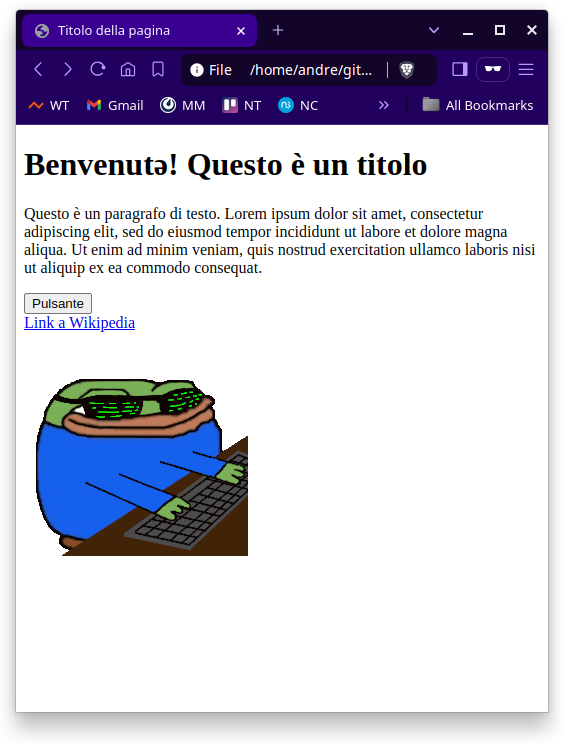
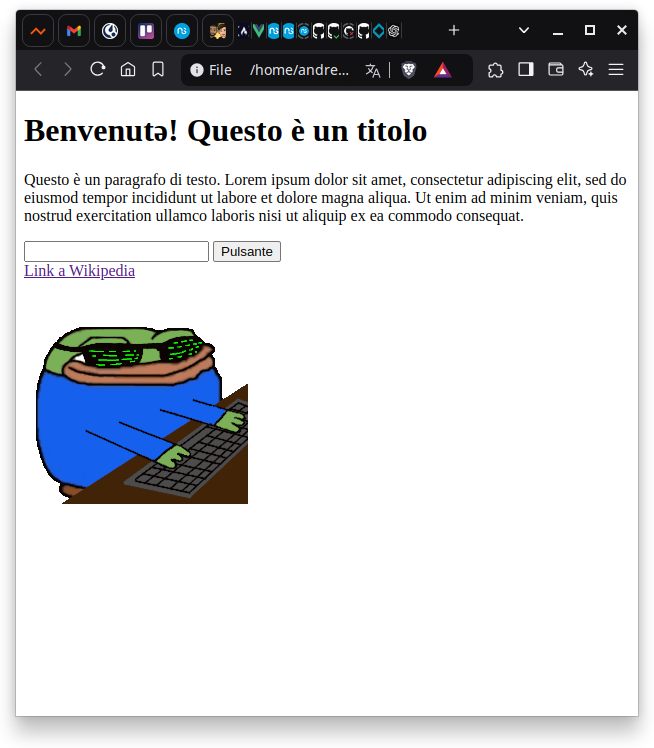
fix(slide): add html exercise; some refactoring

Changed region(s): [[0.0, 0.0, 0.9947, 0.9583]]

diff --git a/code/frontend/css/style.css b/code/frontend/css/style.css
@@ -16,9 +16,17 @@ h1 {
   color: red;
 }
 
+.text-input {
+  color: white;
+  background-color: rgb(70, 70, 70);
+  padding: 0.5rem; /* 8px */
+  margin-bottom: 1rem; /* 16px */
+  border-radius: 0.5rem; /* 8px */
+}
+
 .yellow-button {
   cursor: pointer;
-  background-color: #99ff99;
+  background-color: rgb(150, 255, 150);
   padding: 0.5rem; /* 8px */
   margin-bottom: 1rem; /* 16px */
   border-radius: 0.5rem; /* 8px */

diff --git a/code/frontend/css/test.html b/code/frontend/css/test.html
@@ -19,6 +19,7 @@
     </p>
 
     <div>
+      <input type="text" class="text-input" />
       <button class="yellow-button">Pulsante</button>
     </div>
 

diff --git a/code/frontend/html/test.html b/code/frontend/html/test.html
@@ -13,6 +13,7 @@
     </p>
 
     <div>
+      <input type="text" />
       <button>Pulsante</button>
     </div>
 

diff --git a/code/frontend/exercises/top-5/index.html b/code/frontend/exercises/top-5/index.html
@@ -1,0 +1,7 @@
+<!DOCTYPE html>
+<html>
+  <head>
+    <title></title>
+  </head>
+  <body></body>
+</html>

diff --git a/slide/frontend/pages/html-css.md b/slide/frontend/pages/html-css.md
@@ -1,4 +1,12 @@
+---
+layout: cover
+---
+
 # HTML 👨💻
+
+---
+
+# HTML
 
 - HTML (HyperText Markup Language) è il linguaggio base per creare pagine web
 - Definisce la **struttura** e il **contenuto** di un pagina web
@@ -10,10 +18,11 @@
 
 # Tag HTML
 
-- HTML usa dei "tag" (come `<p>`, `<h1>`, `<body>`) per strutturare il contenuto
+- HTML usa dei **tag** (come `<p>`, `<h1>`, `<body>`) per strutturare il contenuto
 - I tag spesso appaiono in coppia: tag di apertura e tag di chiusura
-- Ogni pagina HTML ha una struttura base con `<html>`, `<head>` e `<body>`
-  - `<head>` contiene informazioni sulla pagina
+- Ogni tag può contenere altri tag figli: **struttura ad albero**
+- Ogni pagina HTML è una struttura base con `<html>`, `<head>` e `<body>`
+  - `<head>` contiene informazioni sulla pagina, ad es. il titolo
   - `<body>` contiene il contenuto effettivo che vedrà l'utente
 
 ---
@@ -34,6 +43,7 @@ layout: two-cols
         </p>
 
         <div>
+            <input type="text" />
             <button>Pulsante</button>
         </div>
 
@@ -60,7 +70,7 @@ layout: two-cols
 - `<p>`: Paragrafo
 - `<div>`: Contenitore generico
 - `<span>`: Testo inline
-- `<a href="">`: Link
+- `<a href="">`: Link ad un'altra pagina web
 - `<img src="">`: Immagini
 - `<ul>`: Lista non ordinata
 - `<ol>`: Lista ordinata
@@ -71,7 +81,63 @@ layout: two-cols
 
 ---
 
+# Attributi HTML
+
+- Gli elementi HTML posso avere **attributi**
+- Gli attributi forniscono informazioni aggiuntive agli elementi
+- Vanno specificati nel tag iniziale dell'elemento
+- Solitamente ogni attributo è costituito da una coppia nome/valore, es. `name="value"`
+
+---
+
+# Attributi comuni (1/2)
+
+- `id`: usato per assegnare un identificativo univoco ad un elemento HTML. Utile per identificare un elemento in JavaScript.
+
+```html
+<input type="text" id="myTextInput" />
+```
+
+- `href`: attributo del tag `<a>` per specificare l'indirizzo di destinazione (URL).
+
+```html
+<a href="https://www.wikipedia.org/">Go to Wikipedia</a>
+```
+
+---
+
+# Attributi comuni (2/2)
+
+- `src`: attributo del tag `<img>` per specificare l'indirizzo dell'immagine da visualizzare.
+
+```html
+<img src="img_student.jpg">
+```
+
+- `alt`: usato per specificare il testo alternativo di un'immagine. Il testo alternativo viene mostrato al posto dell'immagine se l'immagine non è disponibile, ad es.:
+  - errore nell'attributo `src`
+  - connessione lenta
+  - l'utente usa uno screen reader
+
+```html
+<img src="img_student.jpg" alt="Student wearing a jacket">
+```
+
+---
+
+# Sintassi di tag HTML e attributi
+
+<img src="/tag-syntax.png" />
+
+---
+layout: cover
+---
+
 # CSS 🌈
+
+---
+
+# CSS
 
 - CSS (Cascading Style Sheets) è il linguaggio base per decorare una pagina web
 - Definisce lo **stile**, l'apparenza e il posizionamento di ogni elemento della pagina, ad es.:
@@ -85,19 +151,67 @@ layout: two-cols
 # Regole CSS
 
 - Una regola CSS è formata da un selettore e da un blocco di dichiarazioni
-- Qui sotto sono dichiarate due regole CSS
+- In caso di regole in conflitto, vince la regola più specifica
 
 ```css
 h1 {    /* selettore: applica la regola agli elementi "h1" (titoli) */
     color: green;   /* dichiarazione: colora il testo di verde */
     text-align: center;     /* dichiarazione: allinea il testo al centro */
+    margin-bottom: 2rem;    /* dichiarazione: margine inferiore di 32 pixel */
 }
 
-.important-text {   /* selettore: applica la regola agli elementi con classe "important-text" */
+.important-text {   /* applica la regola agli elementi con classe "important-text" */
     text-decoration: underline;     /* sottolineatura */
     font-weight: bold;      /* grassetto */
+    color: blue;
+}
+
+p.important-text {   /* applica la regola SOLO ai paragrafi con classe "important-text" */
+    color: red;
+}
+
+#myTextInput {
+    background-color: yellow;
 }
 ```
+
+---
+
+# Colori
+
+In CSS, i colori vengono utilizzati per definire l'aspetto visivo degli elementi (es. testo, sfondi, bordi). Possono essere specificati in diversi modi:
+- Colori per nome: `red`, `blue`, `green`, `black`, `white`, ecc.
+- Colori RGB e RGBA: specifica i valori dei canali rosso, verde e blu da 0 a 255.
+```css
+color: rgb(255, 0, 0); /* Rosso */
+color: rgb(0, 255, 0); /* Verde */
+color: rgb(0, 0, 255); /* Blu */
+color: rgb(255, 255, 0); /* Giallo */
+color: rgb(128, 128, 128); /* Grigio */
+```
+
+- Colori esadecimali: colori composti da tre coppie: #RRGGBB (red, green, blue). Ogni coppia esadecimale va da `00` (più scuro) a `ff` (più chiaro)
+```css
+color: #ff0000; /* Rosso */
+color: #00ff00; /* Verde */
+color: #0000ff; /* Blu */
+color: #ffff00; /* Giallo */
+color: #333333; /* Grigio scuro */
+color: #dddddd; /* Grigio scuro */
+```
+
+---
+
+# Unità di misura
+
+Le unità di misura vengono utilizzate per definire dimensioni (come larghezze, altezze, margini, dimensione del testo, ecc.).
+
+- `px` (pixel): Misura fissa e precisa. `1px` è un punto sullo schermo
+  - Es. `font-size: 16px;`
+- `rem`: Misura migliore per creare layout scalabili. Solitamente `1rem` equivale a `16px`
+  - Es. `margin-right: 2rem;`
+- `%`: Relativa all'elemento HTML genitore nella struttura ad albero
+  - Es: `width: 50%;` è metà della larghezza dell'elemento genitore.
 
 ---
 
@@ -130,3 +244,19 @@ h1 {    /* selettore: applica la regola agli elementi "h1" (titoli) */
   </body>
 </html>
 ```
+
+---
+layout: image
+image: /html-css.png
+backgroundSize: contain
+---
+---
+
+
+# Approfondimenti su HTML e CSS
+
+- W3Schools: https://www.w3schools.com/
+- Tutorial HTML: https://www.w3schools.com/html/html_intro.asp
+- Esempi HTML: https://www.w3schools.com/html/html_examples.asp
+- Tutorial CSS: https://www.w3schools.com/css/css_intro.asp
+- Esempi CSS: https://www.w3schools.com/css/css_examples.asp

diff --git a/slide/frontend/slides.md b/slide/frontend/slides.md
@@ -1,16 +1,7 @@
 ---
-# You can also start simply with 'default'
 theme: seriph
-# random image from a curated Unsplash collection by Anthony
-# like them? see https://unsplash.com/collections/94734566/slidev
 background: /cover.jpg
-# some information about your slides (markdown enabled)
-title: Welcome to Slidev
-info: |
-  ## Slidev Starter Template
-  Presentation slides for developers.
-
-  Learn more at [Sli.dev](https://sli.dev)
+title: HTML, CSS & JavaScript
 # apply unocss classes to the current slide
 class: text-center
 # https://sli.dev/features/drawing
@@ -33,5 +24,15 @@ hide: false
 
 ---
 src: ./pages/javascript.md
+hide: false
+---
+
+---
+src: ./pages/exercices-html-css.md
+hide: false
+---
+
+---
+src: ./pages/exercices-javascript.md
 hide: false
 ---

diff --git a/slide/frontend/pages/exercices-html-css.md b/slide/frontend/pages/exercices-html-css.md
@@ -1,0 +1,17 @@
+---
+layout: cover
+---
+
+# Esercizi 💪
+
+---
+
+# Top 3 (HTML) 🏆
+
+Crea una pagina web in cui mostrare una classifica top 3, ad esempio i tuoi 3 film preferiti, oppure le tue 3 canzoni preferite, oppure i tuoi 3 libri preferiti ecc.
+
+- Apri il file `code/frontend/exercises/top-5/index.html` su Visual Studio Code
+- Apri lo stesso file anche sul browser (Chrome, Edge, Firefox...)
+- Aggiungi un titolo nella pagina web inserendo un tag `<h1>` all'interno del tag `<body>`, ad es. "I miei 3 film preferiti"
+- Ricarica la pagina web sul browser per vedere le tue modifiche (F5 sulla tastiera)
+- Aggiungi un titolo alla pagina inserendo un tag `<title>...</title>` all'interno del tag `<head>`. Il titolo dovrà apparire nella scheda del browser

diff --git a/slide/frontend/pages/exercices-javascript.md b/slide/frontend/pages/exercices-javascript.md
@@ -1,0 +1,2 @@
+# Esercizi JavaScript
+
